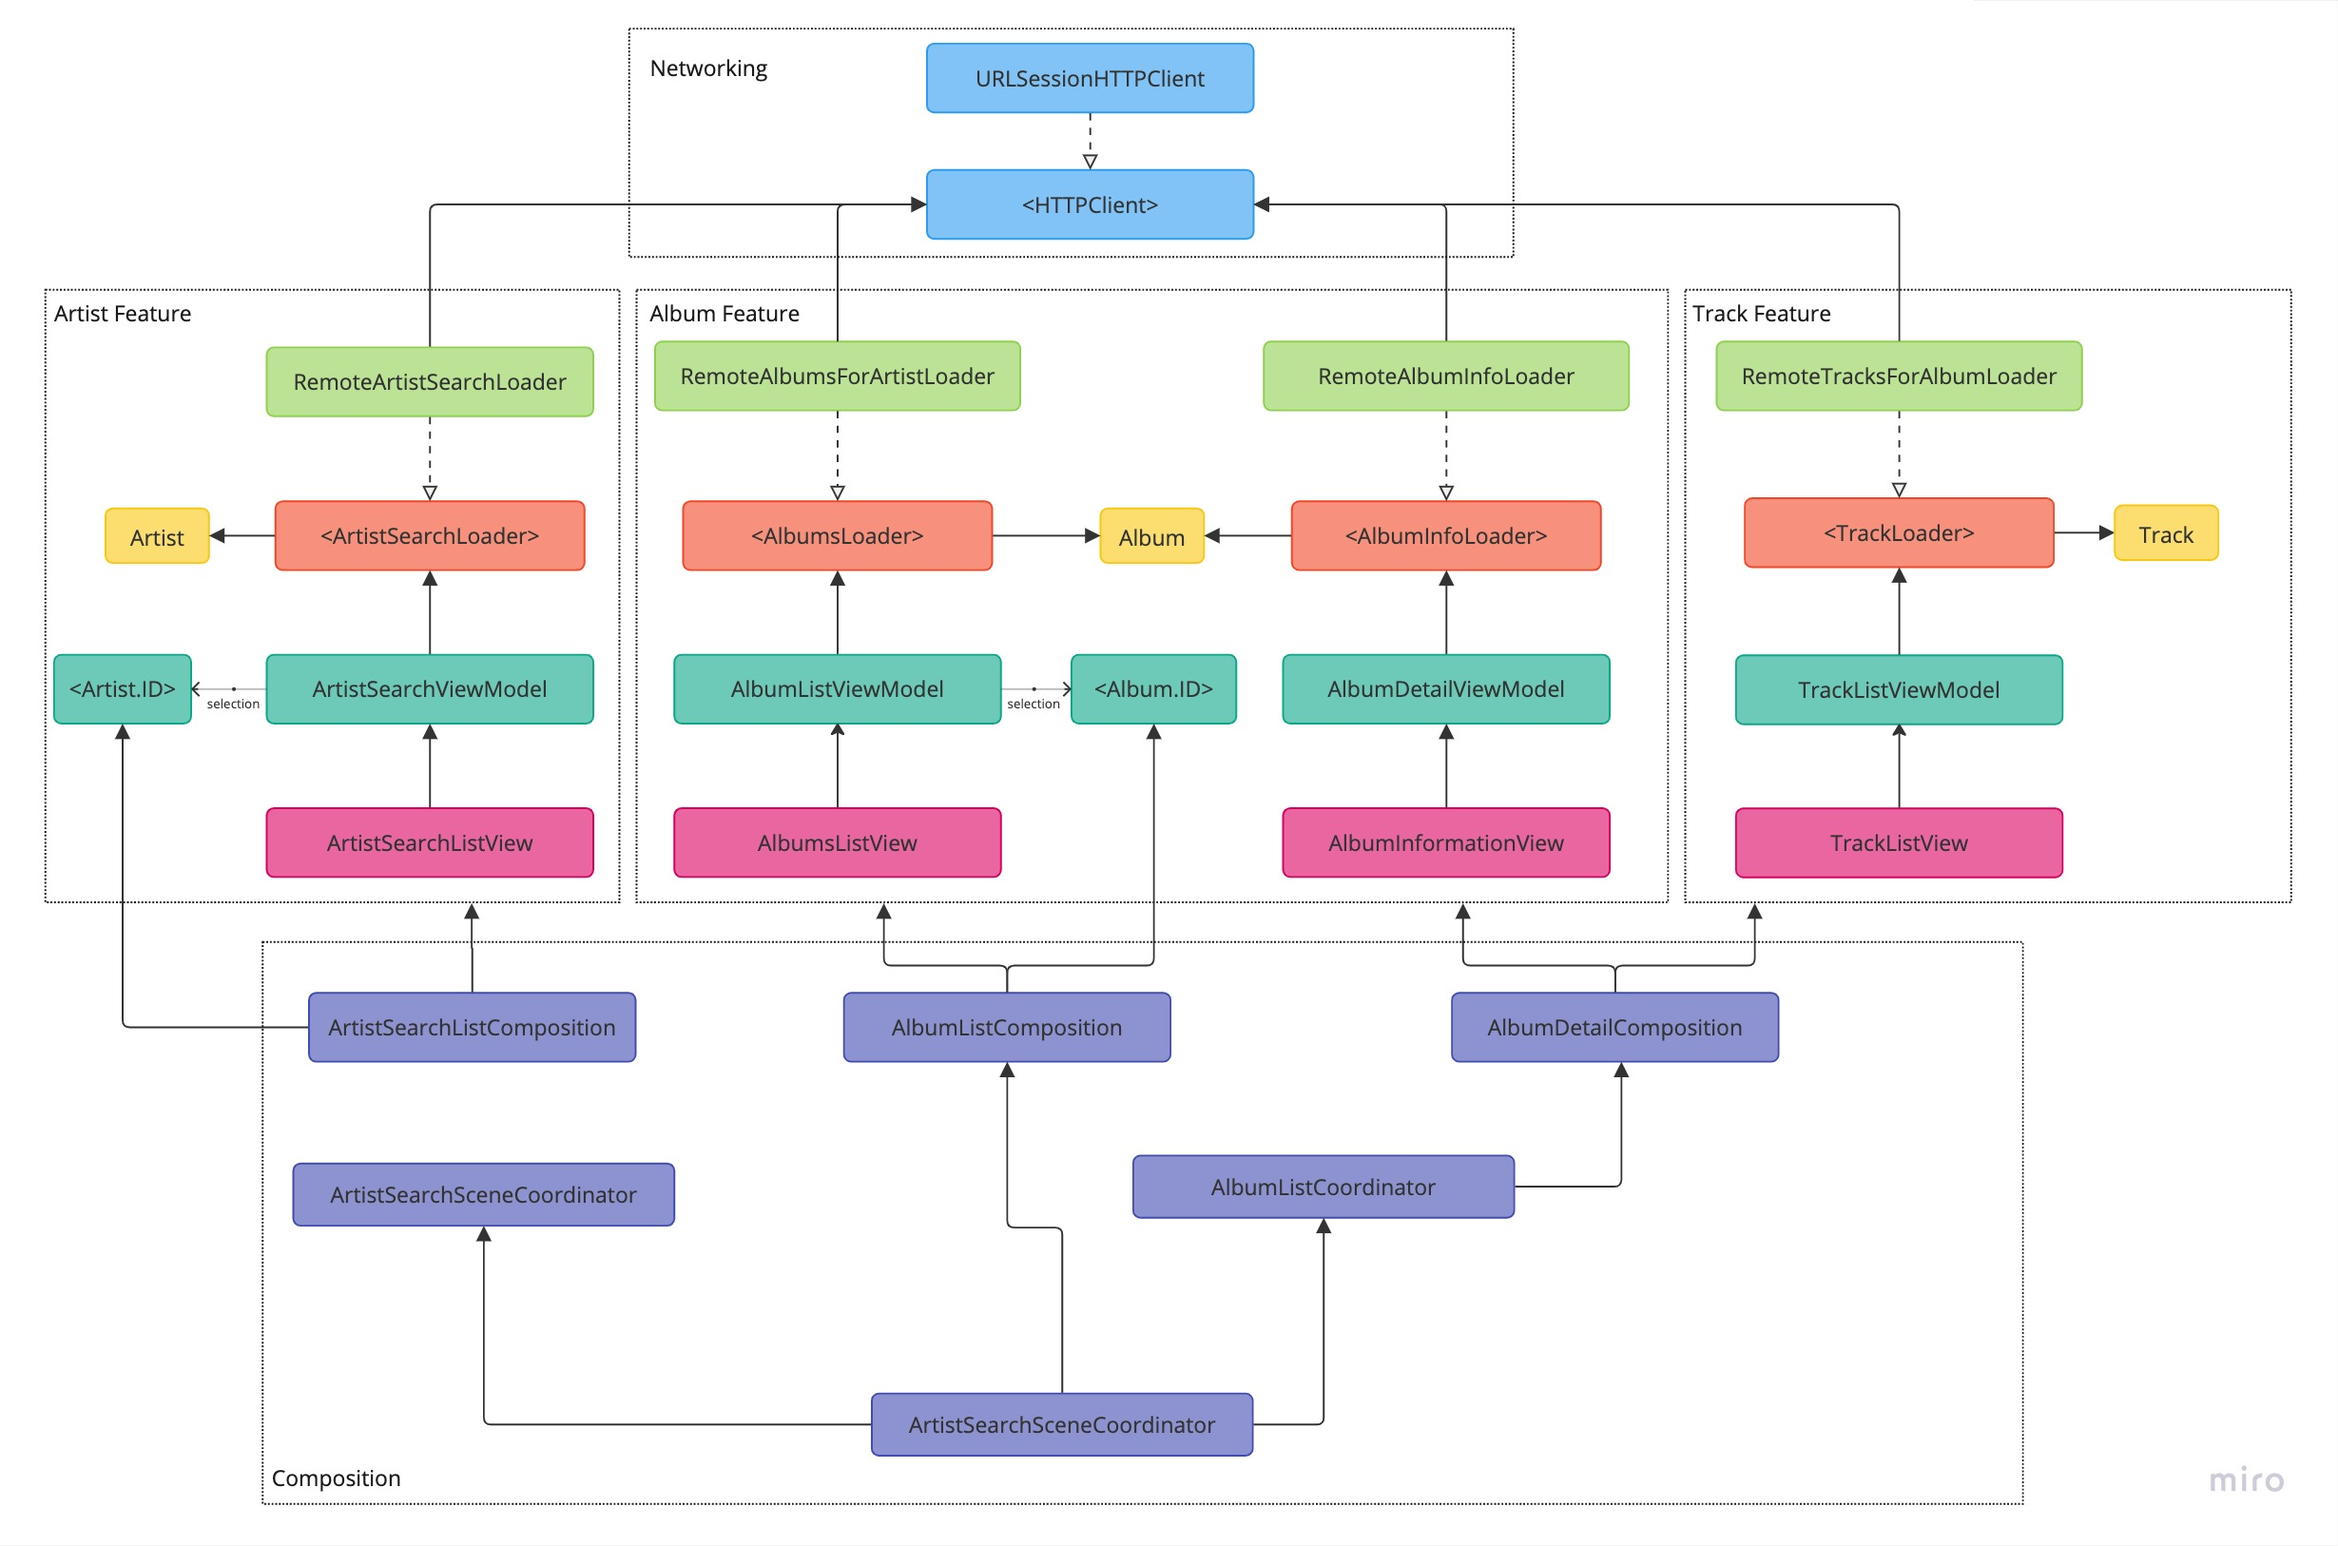
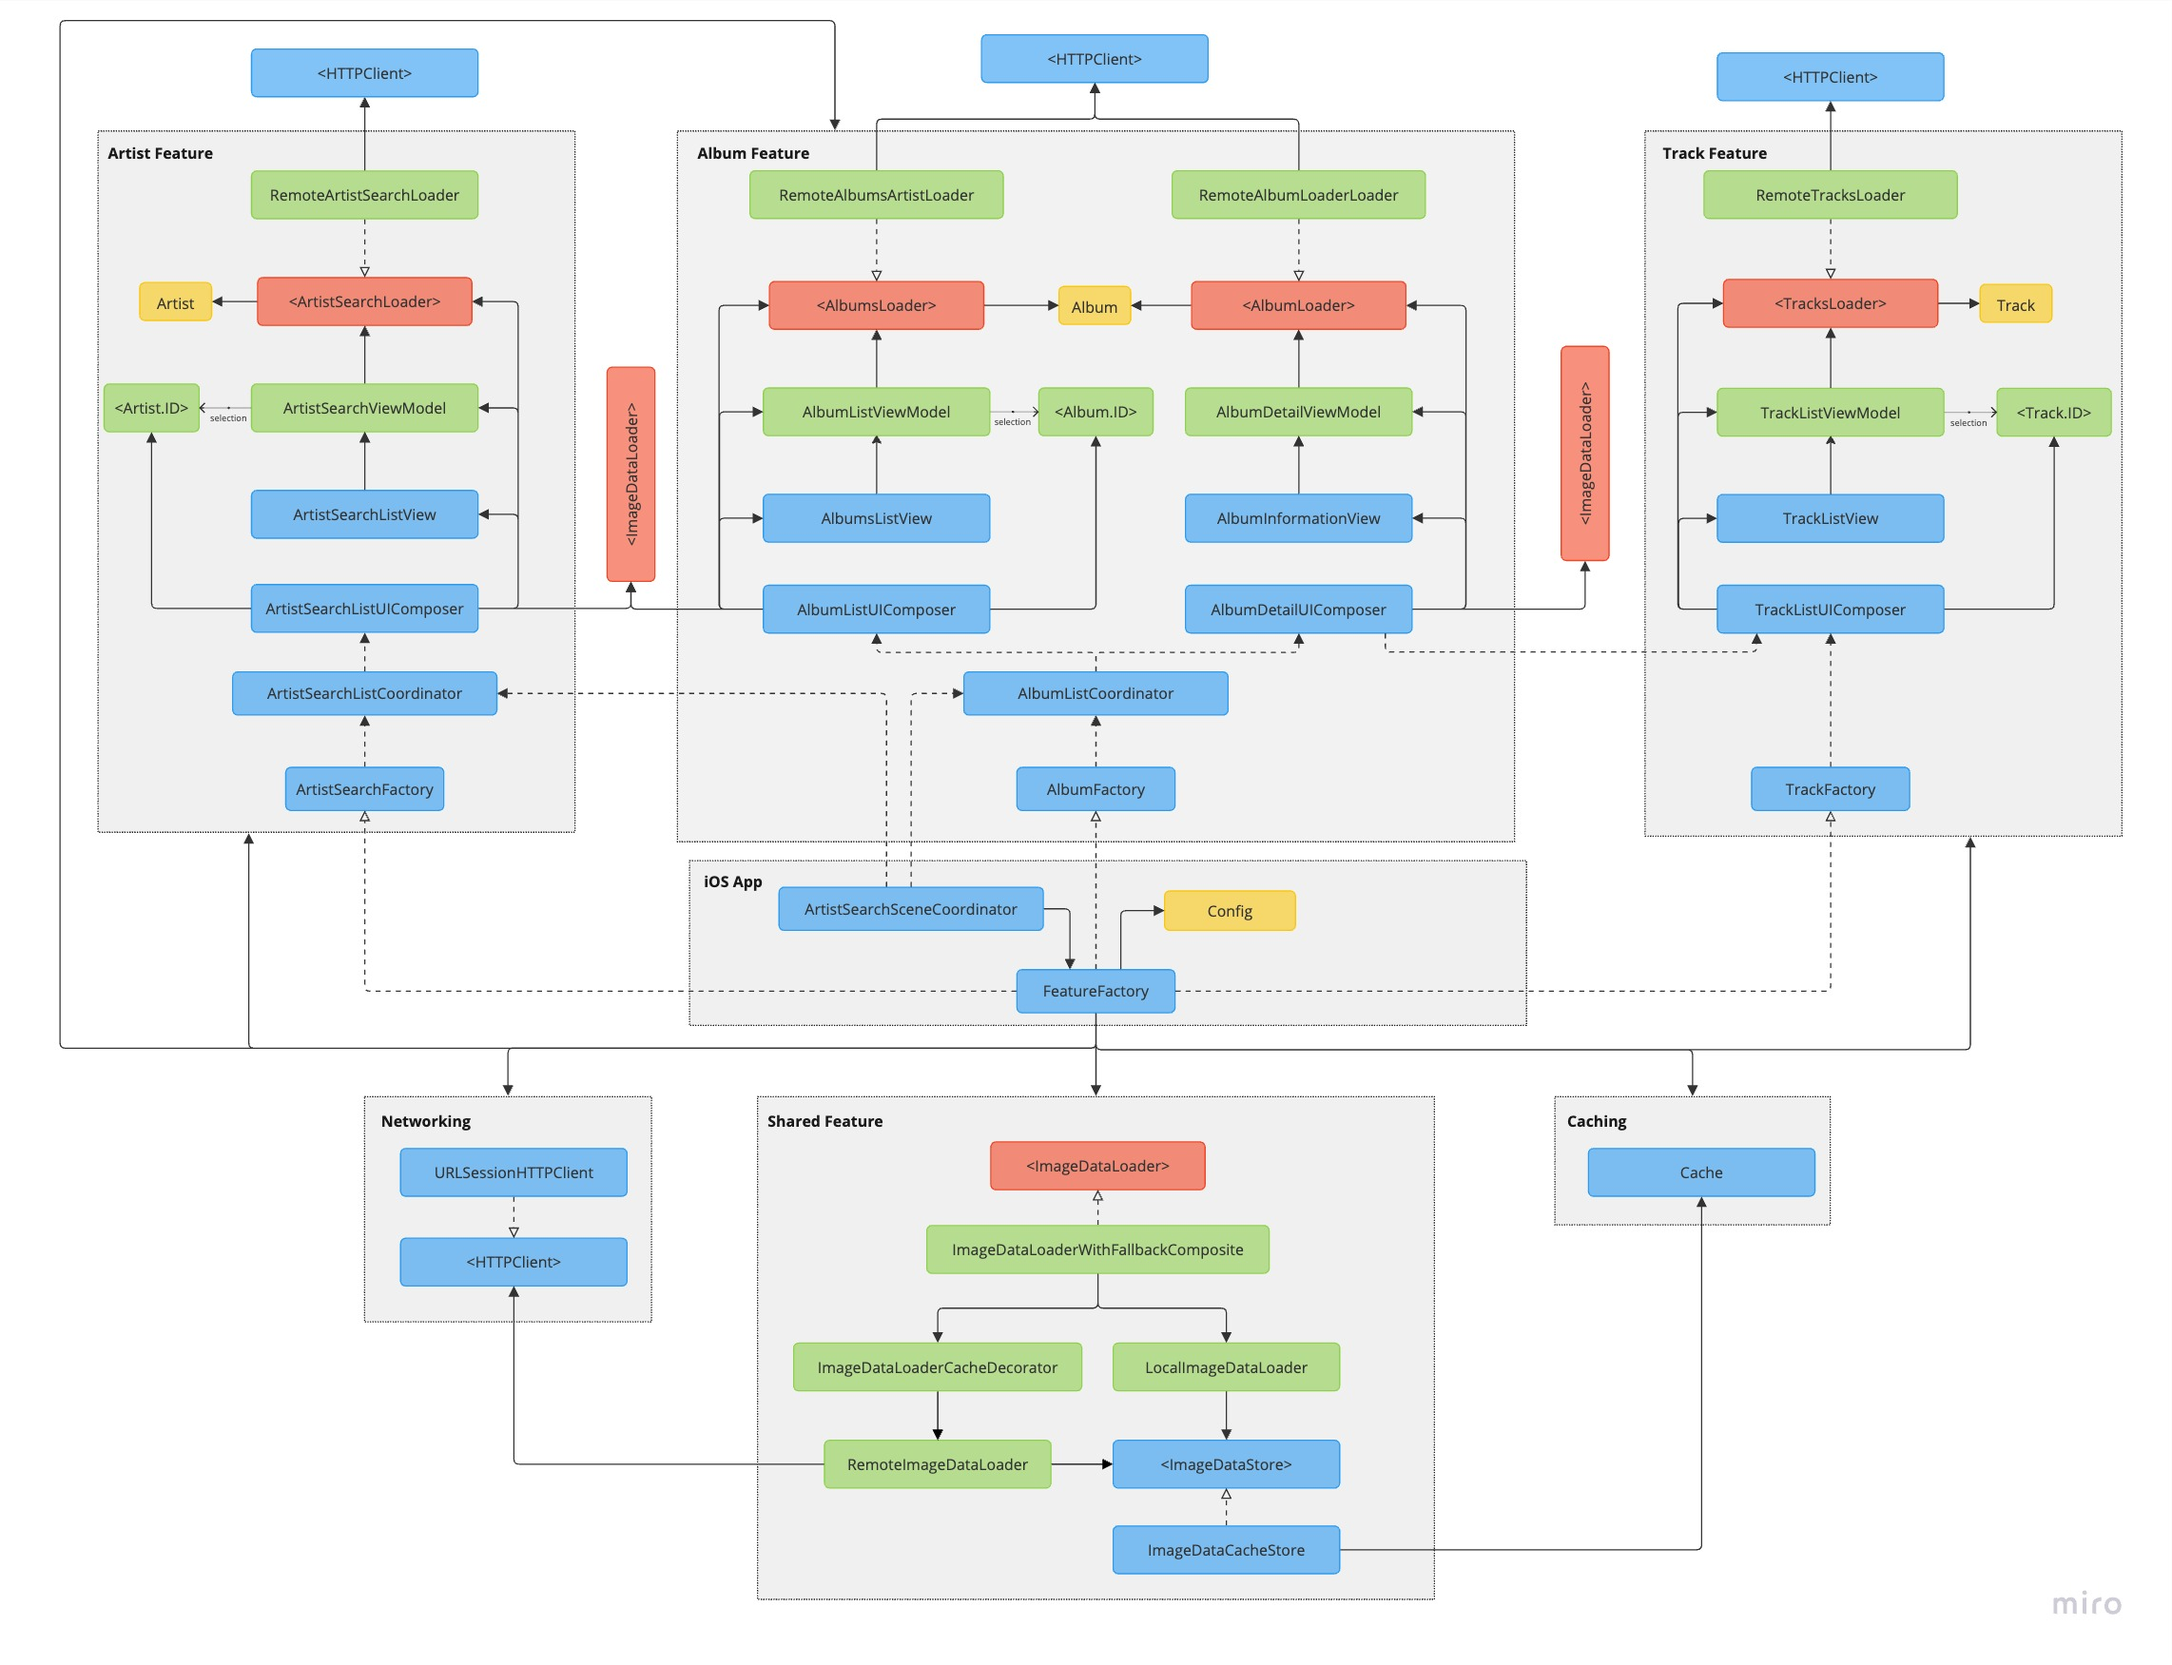
Update the Architecture Overview page with updated diagrams and explantion of composition

diff --git a/Documentation/ArchitectureOverview.md b/Documentation/ArchitectureOverview.md
@@ -3,7 +3,18 @@ The diagram belows shows the general architecture of the app, where each layer i
 
 This architecture adheres to the principles of __Clean Architecture__, relying on use cases in the form of `Loaders` and adhering to the `Dependency Rule`.
 
-All layers are highly de-coupled from each other and the composition rule then composes all layers together as needed.
-The main actors in the composition layer are the coordinators, which interacts with a factory to build each view and then present it on screen.
+The diagram below shows a high level translation to the __Clean Architecture__ and the architecture used in this app.
+The colours used are also representative in the Architecture diagrams
+
+![Clean Architecture](assets/CleanArchitecture.jpg)
+
+All layers are highly de-coupled from each other and relies on composition components to compose the features as needed.
+Each Feature Module exposes a `-Factory` interface that is implemented by the `FeatureFactory` in the `iOS App`. The `FeatureFactory` is where all the composition happens.
+As seen in the diagram below, the `FeatureFactory` has references to all modules to inject and compose as needed.
+
+Coordinators serve as the navigation components, that will present each screen and reference the `FeatureFactory` for the components.
+
+> DISCLAIMER: \
+> Not all the components are shown in the diagram below, some components were not included to make the diagram simpler and easier to follow.
 
 ![Architecture Overview](assets/ArchitectureOverview.jpg)
